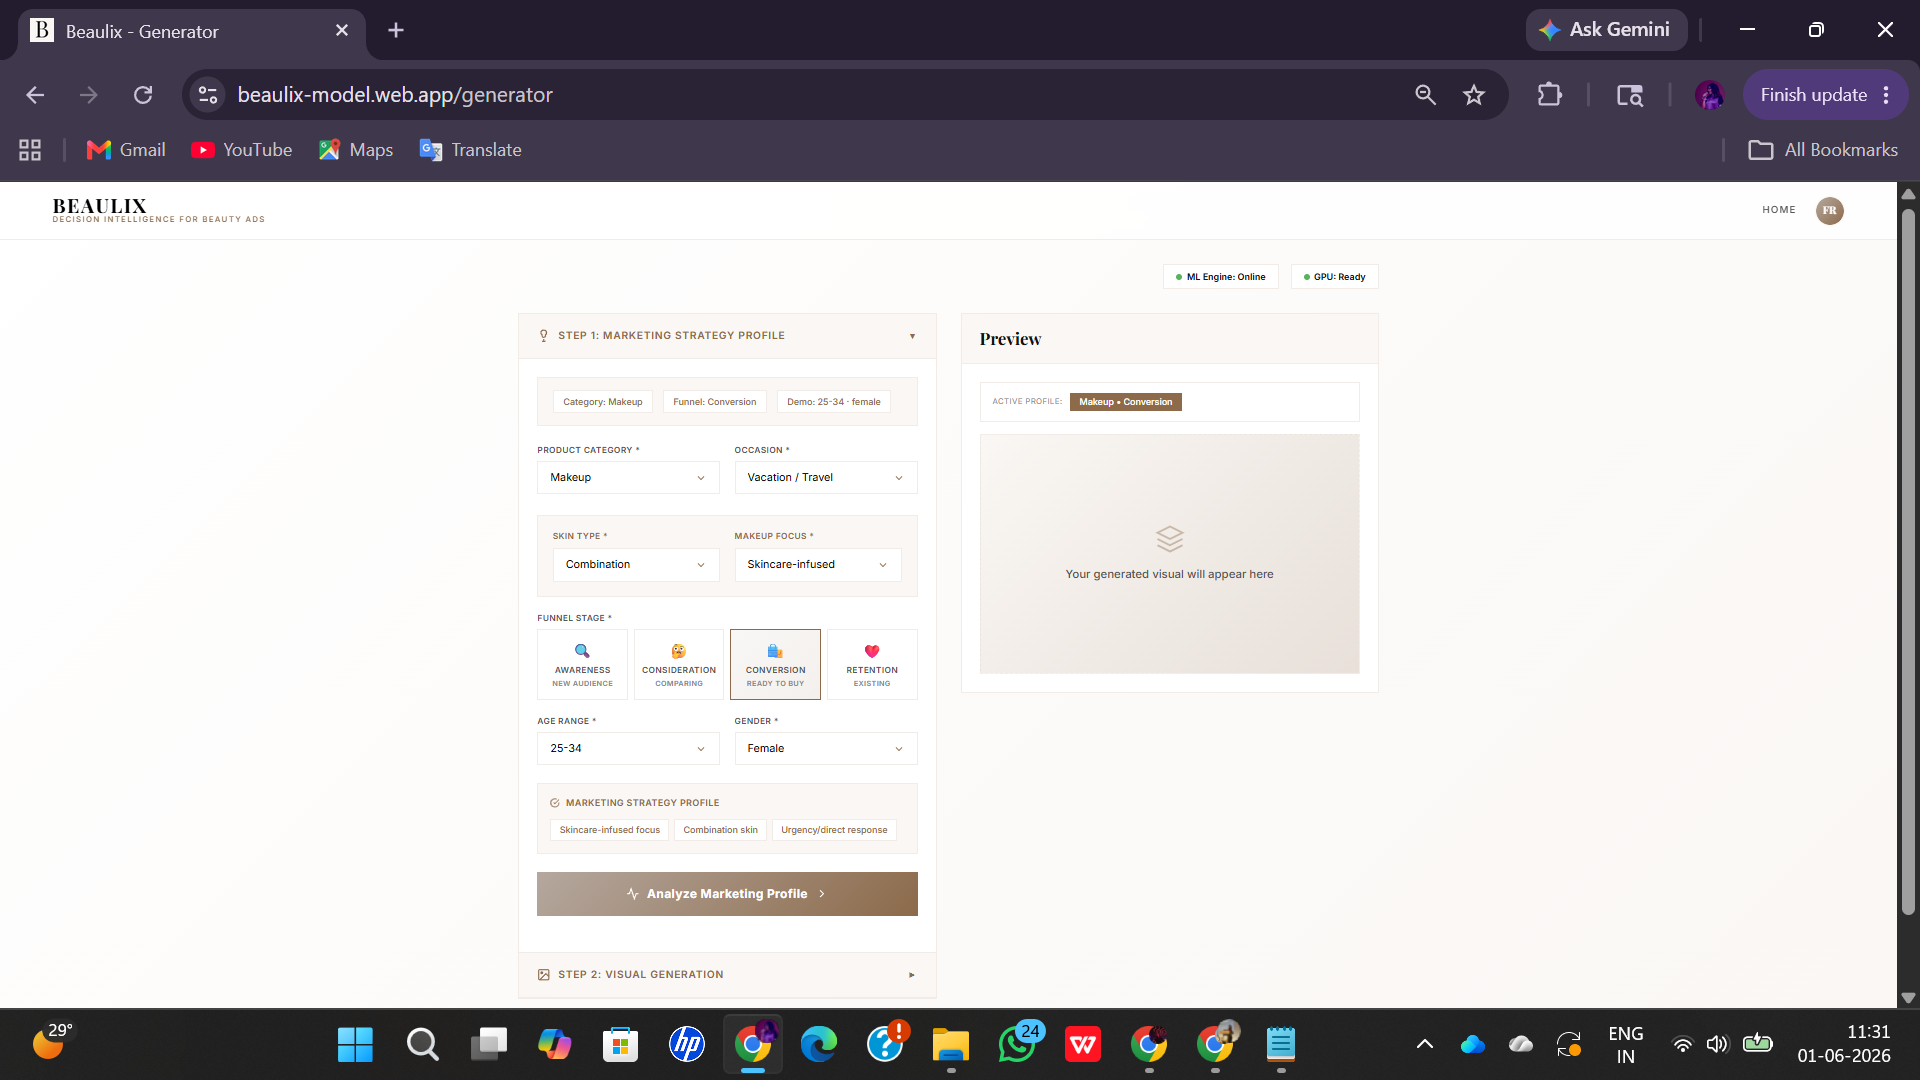
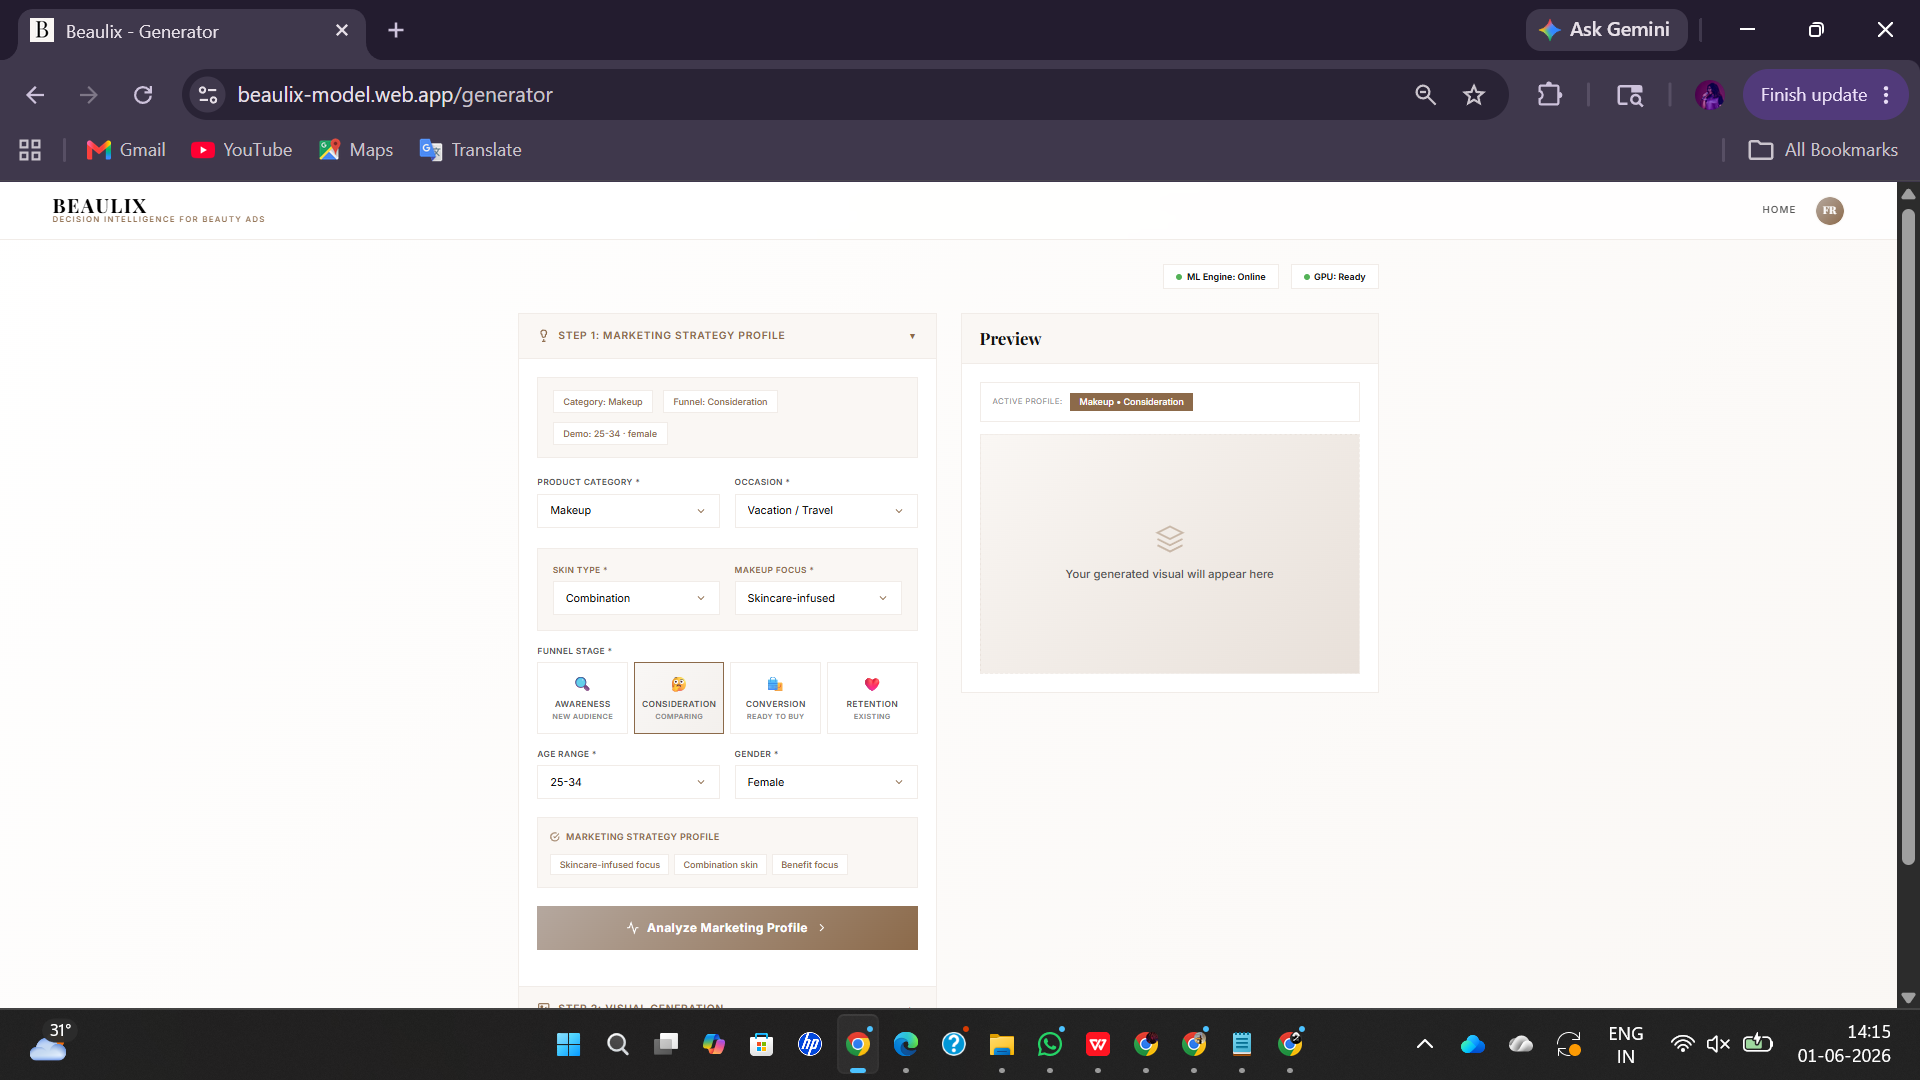
Initial Commit

diff --git a/frontend/profile-module.js b/frontend/profile-module.js
@@ -3,16 +3,17 @@
   import { getAuth, onAuthStateChanged, updateProfile, signOut } from 'https://www.gstatic.com/firebasejs/10.14.1/firebase-auth.js';
   import { getFunctions, httpsCallable } from 'https://www.gstatic.com/firebasejs/10.14.1/firebase-functions.js';
   import { initNavAuth, getLocalAvatar, getInitials, renderNavAvatar } from './nav-module.js';
-  // Cloudinary credentials fetched at runtime
+  // Cloudinary credentials fetched at runtime from Firestore config/cloudinary
   let CLOUDINARY_CLOUD = null;
   let CLOUDINARY_PRESET = null;
   async function _ensureCloudinaryConfig() {
     if (CLOUDINARY_CLOUD && CLOUDINARY_PRESET) return;
-    const { getFunctions: _getFns, httpsCallable: _call } = await import('https://www.gstatic.com/firebasejs/10.14.1/firebase-functions.js');
-    const fns = _getFns(app);
-    const result = await _call(fns, 'cloudinaryConfig')();
-    CLOUDINARY_CLOUD = result.data.cloud;
-    CLOUDINARY_PRESET = result.data.preset;
+    const { getFirestore, doc, getDoc } = await import('https://www.gstatic.com/firebasejs/10.14.1/firebase-firestore.js');
+    const db = getFirestore(app);
+    const snap = await getDoc(doc(db, 'config', 'cloudinary'));
+    if (!snap.exists()) throw new Error('config/cloudinary doc missing in Firestore');
+    CLOUDINARY_CLOUD  = snap.data().cloud_name;
+    CLOUDINARY_PRESET = snap.data().upload_preset;
   }
 
   const auth = getAuth(app);

diff --git a/README.md b/README.md
@@ -10,6 +10,7 @@ Developed as a 6th Semester BCA project at **Mount Carmel College, Autonomous, B
 ## Table of Contents
 
 - [Overview](#overview)
+- [Screenshots](#screenshots)
 - [Features](#features)
 - [Tech Stack](#tech-stack)
 - [System Architecture](#system-architecture)
@@ -44,6 +45,81 @@ The overall pipeline is:
 ```
 User Input → Data Processing → ML Prediction → AI Visual Generation → Output Display → Firebase Storage
 ```
+
+---
+
+## Screenshots
+
+### Home Page
+The landing page introduces Beaulix with the tagline *"Turn product type + concern into ads that convert"*, flanked by example beauty ad visuals. Navigation links to Home, How It Works, Features, Examples, and Log In.
+
+![Home Page](screenshots/Home%20Page.png)
+
+---
+
+### Sign Up & Login
+Clean, card-based authentication forms with email/password fields and a **Continue with Google** option on the login page. Sign-up collects Full Name, Email, Password, and Confirm Password.
+
+| Sign Up | Login |
+|---|---|
+| ![Sign Up](screenshots/Sign%20Up.png) | ![Login](screenshots/Login.png) |
+
+---
+
+### Generator — Step 1: Marketing Strategy Profile
+Users define their campaign inputs: **Product Category**, **Occasion**, **Skin Type**, **Makeup Focus**, **Funnel Stage** (Awareness / Consideration / Conversion / Retention), **Age Range**, and **Gender**. The active profile summary is shown as tags before hitting **Analyse Marketing Profile**.
+
+![Marketing Strategy Profile](screenshots/Marketing%20Analysis.png)
+
+---
+
+### Generator — Step 1 Results: Marketing Analysis Output
+After analysis, a dark results panel displays four predicted performance metrics with confidence intervals:
+
+| Metric | Example Result |
+|---|---|
+| Predicted CTR | 3.36% — 19% above avg |
+| Predicted Conversion | 1.41% — 3% above avg |
+| Engagement Rate | 4.31% — 16% above avg |
+| Confidence Score | 92.6% — Exceptional |
+
+A **Recommended Visual Strategy** block suggests scene description, brand style, whether to include a human face, aspect ratio, and output type — and pre-fills Step 2 automatically.
+
+![Marketing Analysis Output](screenshots/Marketing%20Analysis%20Output.png)
+
+---
+
+### Generator — Step 2: Visual Generation (Input)
+Step 2 collects: **Product Type**, **Product Colour**, **Scene Description** (free text), **Brand Style**, **Include Human Face** toggle, **Gender**, **Age Range**, **Skin Tone** (Fair / Light / Medium / Tan / Deep), **Region / Ethnicity**, **Aspect Ratio** (1:1 Square, 9:16 Portrait, 16:9 Landscape, 4:5 Instagram), **Output Type** (Image / Video), and **Duration** for videos. A progress bar appears during generation.
+
+| Visual Parameters | Aspect Ratio & Output |
+|---|---|
+| ![Visual Generation 1](screenshots/Visual%20Generation%201.png) | ![Visual Generation 2](screenshots/Visual%20Generation%202.png) |
+
+---
+
+### Generator — Step 2 Results: Generated Visual & Ad Copy
+The Preview panel renders the SDXL-generated image or video inline. Below it, the **Ad Text** section shows five individually-copyable fields — Hook / Opening Line, Headline, Primary Text, CTA, and Offer / Promotion. A **Recommended Targeting** chip list, **Best Platform Placement** tags (e.g. Instagram, YouTube, Pinterest), and a creative performance uplift card showing Conv, CTR, and Engagement gains vs baseline complete the output.
+
+| Generated Visual + Ad Copy | Targeting & Performance Uplift |
+|---|---|
+| ![Visual Generation Output 1](screenshots/Visual%20Generation%20Output%201.png) | ![Visual Generation Output 2](screenshots/Visual%20Generation%20Output%202.png) |
+
+![Visual Generation Output 3](screenshots/Visual%20Generation%20Output%203.png)
+
+---
+
+### Generated History
+A gallery of all previously created ads. Each card shows a thumbnail with an IMAGE or VIDEO badge, campaign name, date/time, category and funnel tags, aspect ratio, and a truncated prompt. Hovering reveals **View**, **Download**, and **Delete** action buttons.
+
+![History](screenshots/History.png)
+
+---
+
+### My Profile
+Shows account details — Full Name, Email (with Verified badge), Sign-in method, and User ID — plus an Account Actions section with **Change Password** and **Sign Out**. Avatar is uploaded via Cloudinary.
+
+![Profile](screenshots/Profile.png)
 
 ---
 
